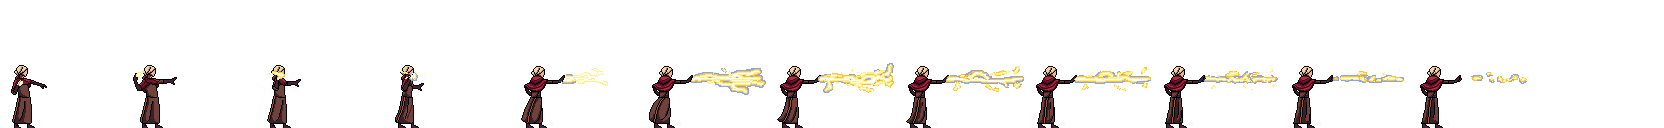
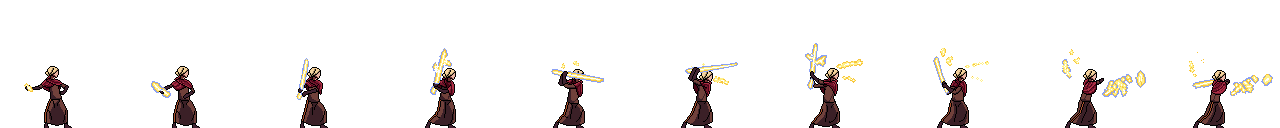
finally donw with character creation animation

Changed region(s): [[0.3125, 0.3438, 1.0, 1.0], [0.0, 0.5, 0.1875, 1.0], [0.2188, 0.5, 0.2812, 1.0]]

diff --git a/app/javascript/controllers/new_character_controller.js b/app/javascript/controllers/new_character_controller.js
@@ -1,35 +1,110 @@
 import { Controller } from "@hotwired/stimulus"
 
 export default class extends Controller {
-  static targets = ["gender", "klass", "display"]
+  static targets = ["preview", "gender"]
+
+  connect() {
+    this.interval = null
+  }
+
+  disconnect() {
+    clearInterval(this.interval)
+  }
 
   render() {
-    const gender = this.genderTargets.find(r => r.checked)?.value
-    const klass  = this.klassTargets.find(r => r.checked)?.value
-    const display = this.displayTarget
+    const klass = document.querySelector('input[name="character[class_name]"]:checked')?.value?.toLowerCase()
+    const gender = document.querySelector('input[name="character[gender]"]:checked')?.value?.toLowerCase()
+    const preview = this.previewTarget
 
-    if (!gender || !klass) {
-      display.innerHTML = ""
+    // Disable gender selection if class is gorgon
+    this.genderTargets.forEach(input => {
+      input.disabled = klass === "gorgon"
+    })
+
+    // Determine key for sprite
+    const key = klass === "gorgon" ? "gorgon" : `${gender}_${klass}`
+    const sprite = this.spriteData[key]
+
+    if (!sprite) {
+      preview.style.display = "none"
+      clearInterval(this.interval)
       return
     }
 
-    const path = `/assets/${gender.toLowerCase()}_${klass.toLowerCase()}.png`
+    const { path, frames, frameWidth, frameHeight, offsetX, speed } = sprite
+    let currentFrame = 0
 
-    display.innerHTML = `
-      <img id="npc-preview"
-           src="${path}"
-           style="
-             position: absolute;
-             top: 50%;
-             left: 50%;
-             transform: translate(-50%, -50%) scale(2);
-             transform-origin: center;
-             width: 86px;
-             height: 86px;
-             object-fit: none;
-             object-position: 0 0;
-             image-rendering: pixelated;
-             pointer-events: none;" />
-    `
+    preview.style.display = "block"
+    preview.style.width = `${frameWidth}px`
+    preview.style.height = `${frameHeight}px`
+    preview.style.backgroundImage = `url(${path})`
+
+    clearInterval(this.interval)
+    this.interval = setInterval(() => {
+      const xOffset = (frameWidth * currentFrame) - (offsetX?.[currentFrame] || 0)
+      preview.style.backgroundPosition = `-${xOffset}px 0px`
+      currentFrame = (currentFrame + 1) % frames
+    }, speed || 170)
+  }
+
+  get spriteData() {
+    return {
+      "male_warrior": {
+        path: "/assets/male_warrior.png",
+        frames: 5,
+        frameWidth: 86,
+        frameHeight: 86,
+        offsetX: [0, 0, 0, 0, 0],
+        speed: 170
+      },
+      "female_warrior": {
+        path: "/assets/female_warrior.png",
+        frames: 9,
+        frameWidth: 100,
+        frameHeight: 64,
+        offsetX: [0, 0, 0, 0, 0],
+        speed: 170
+      },
+      "female_mage": {
+        path: "/assets/female_mage.png",
+        frames: 10,
+        frameWidth: 128,
+        frameHeight: 128,
+        offsetX: [0, 0, 0, 0, 0],
+        speed: 120
+      },
+      "male_mage": {
+        path: "/assets/male_mage.png",
+        frames: 16,
+        frameWidth: 128,
+        frameHeight: 128,
+        offsetX: [0, 0, 0, 0, 0],
+        speed: 150
+      },
+      "male_warewolf": {
+        path: "/assets/male_warewolf.png",
+        frames: 7,
+        frameWidth: 128,
+        frameHeight: 128,
+        offsetX: [0, 0, 0, 0, 0],
+        speed: 110
+      },
+      "female_warewolf": {
+        path: "/assets/female_warewolf.png",
+        frames: 11,
+        frameWidth: 128,
+        frameHeight: 128,
+        offsetX: [0, 0, 0, 0, 0],
+        speed: 110
+      },
+      "gorgon": {
+        path: "/assets/gorgon_1.png",
+        frames: 16,
+        frameWidth: 128,
+        frameHeight: 128,
+        offsetX: [0, 0, 0, 0, 0],
+        speed: 160
+      }
+    }
   }
 }
